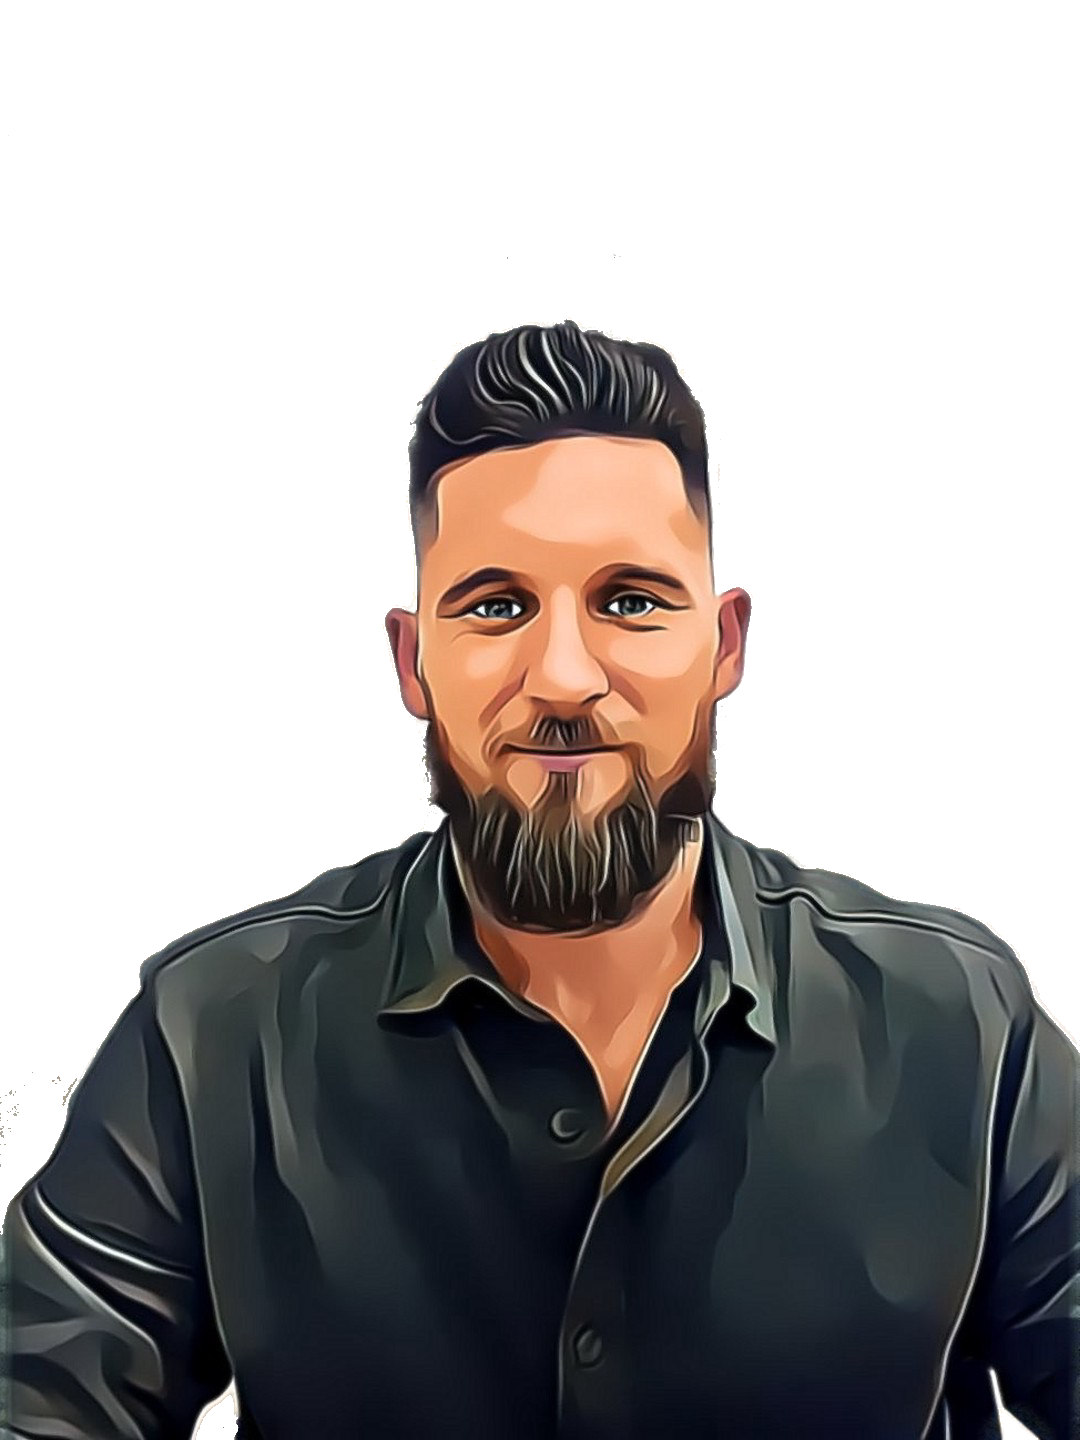
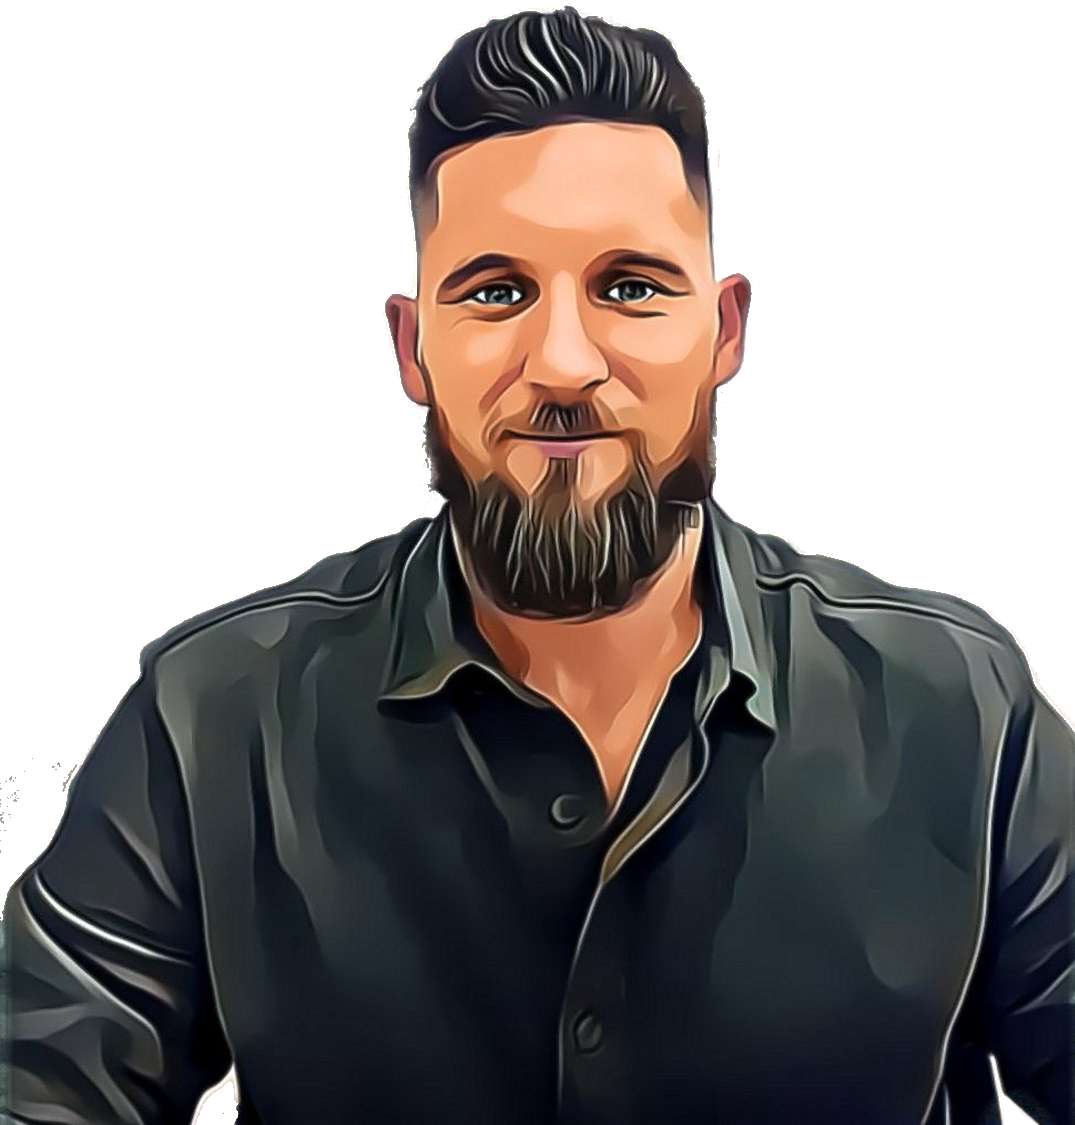
avtar and start on home page content

diff --git a/style.css b/style.css
@@ -18,8 +18,19 @@ body {
     } 
 
 header {
+  top: 5vh;
   height: 50vh;
 }
+
+main{
+  display:flex;
+  flex-direction: row;
+  justify-content: center;
+}
+main img{
+  width: 400px;
+  max-width: 100vw;
+ }
 .scrolling_head {
   position: absolute;
   clip: rect(0, auto, auto, 0);

diff --git a/index.html b/index.html
@@ -47,6 +47,11 @@
             </div>
         </div>
     </header>
+    <main>
+        <img src="images/about/avatar2.PNG" alt="Profile_picture">
+
+    </main>
+
     <footer>
 
         <nav class="bottomnav">
